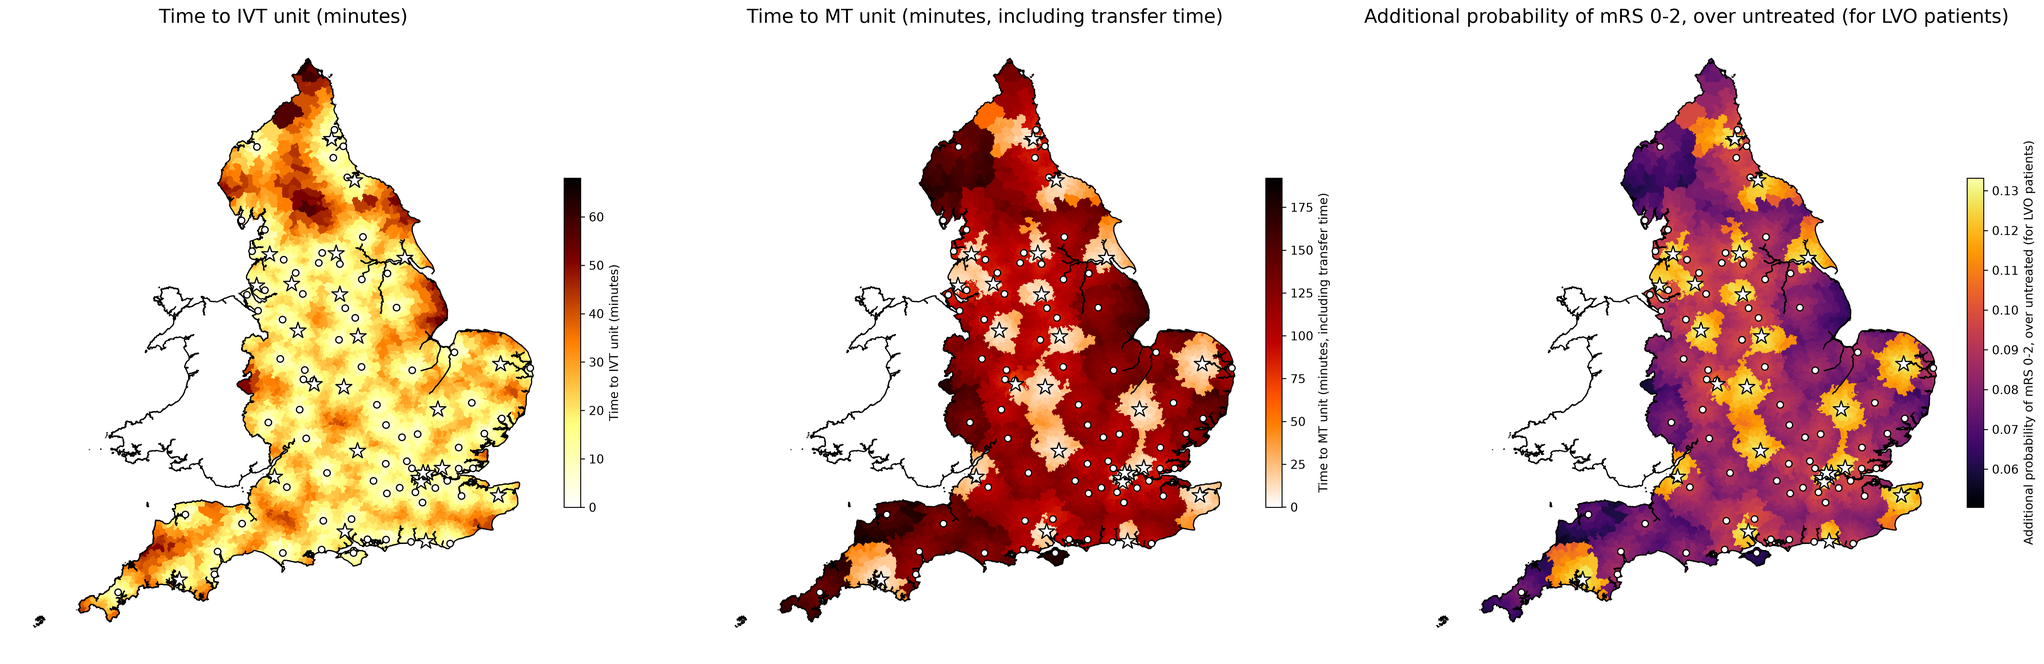
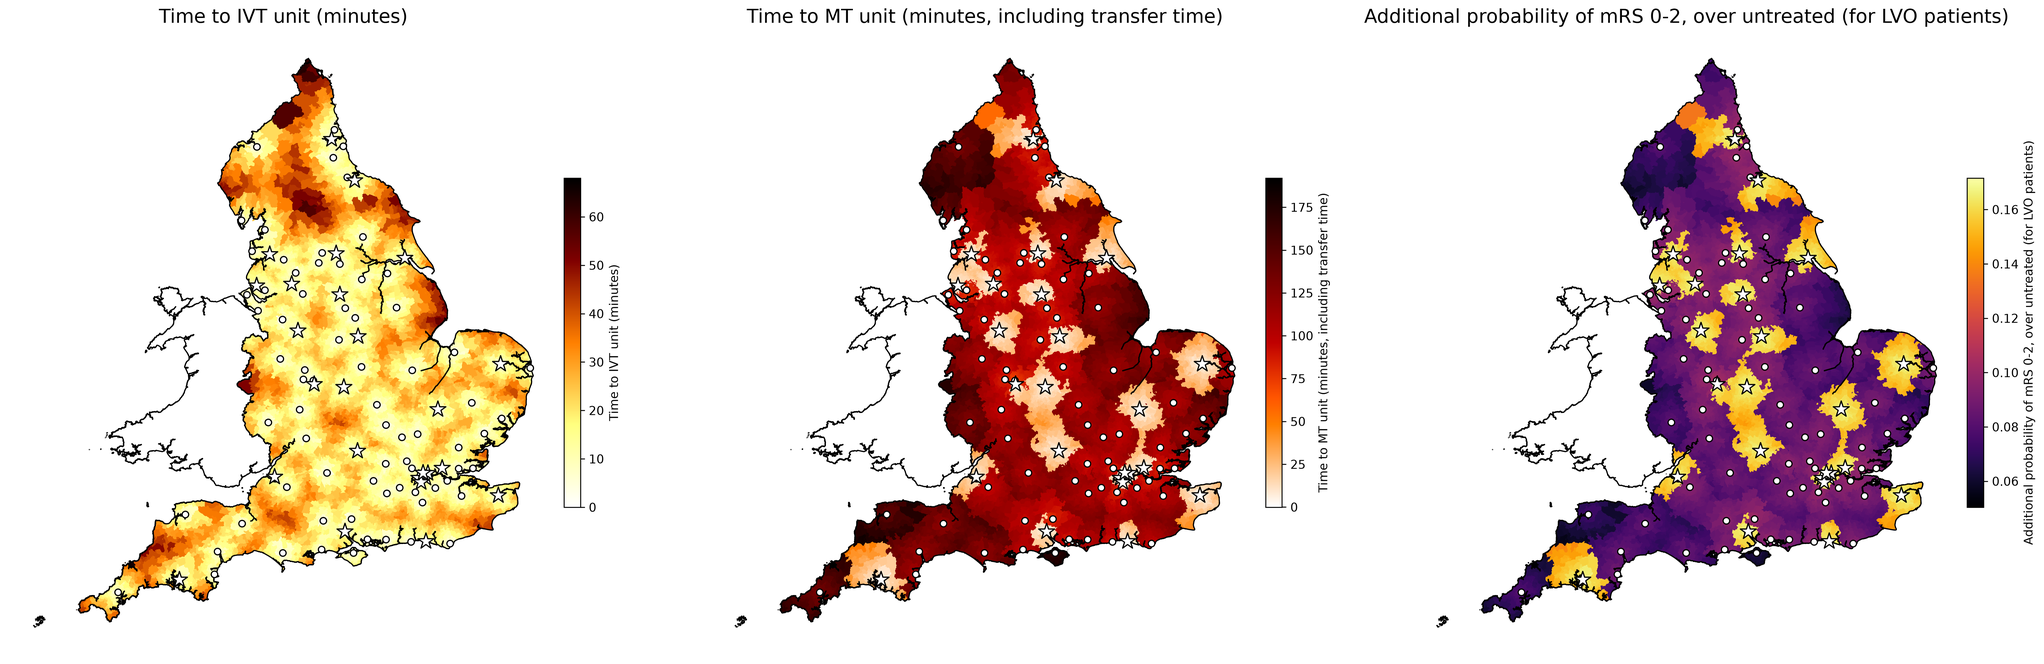
Updates from Overleaf

Changed region(s): [[0.7183, 0.0927, 0.9682, 0.927]]

diff --git a/chapters/7_supplement.tex b/chapters/7_supplement.tex
@@ -2,40 +2,81 @@
 
 \subsection{Selection of potential new MT units by net benefit}
 
-\noindent
-\begin{minipage}{\linewidth}
+We tested each IVT-only unit to estimate the potential gain from adding that unit as a single extra MT unit. The model predicted the catchment population of the new MT provision, as a sum of admissions to that unit and all surrounding IVT-only units where the new MT unit would be the closest (fast travel time) MT unit. The model also predicted the benefit to those patients. The total net benefit from adding each unit is the product of the catchment population and the benefit achieved to that population. Two units may have the same net benefit but one by having a smaller benefit over a larger population, and the other having a larger benefit over a smaller benefit. Table \ref{tab:hospital-benefit} shows the top 40 units as measured by the total net benefit. Figure \ref{fig:benefit_pareto} plots catchment population against benefit to that population, and the resulting net benefit.
+
+\begin{table}[htbp]
 \centering
-\captionof{table}{Order of benefit of adding a single new MT unit. Net benefit is a product of the overall catchment area for the new proposed MT unit (including the catchments of the IVT feeder units) and the benefit to those transferred to the new MT unit. \textit{Mean benefit for those benefiting} is the predicted improvement in percentage points of treated LVO patients with mRS 0-2 at 3-6 months, assuming there is no loss of use of MT by first attending an IVT-only unit.} 
+\small
+\caption{Estimated benefit by hospital location. Each hospital is tested as a single extra MT-unit in addition to current provision. The \textit{Admission Catchment Benefitting} is the catchment of that extra unit and all the IVT-only units that would likely use the new unit. \textit{The Mean Benefit} is the number of additional good outcomes (mRS 0-2 at 3-6 months) for 100 patients treated with MT at the new centre. The \textit{Relative Benefit} is the product of the Catchment and the Mean Benefit, scaled to the maximum benefit observed. Results show the hospitals in the top 40 relative benefit.}
 \label{tab:hospital-benefit}
-\begin{tabular}{r l r r r}
+\begin{tabular}{lrrr}
 \toprule
-Rank & Hospital Location & \shortstack{Admission Catchment\\Benefiting} & \shortstack{Mean Benefit for\\Those Benefiting} & \shortstack{Relative\\Net Benefit} \\
+Hospital Location & \shortstack[r]{Admission Catchment\\Benefiting} & \shortstack[r]{Mean\\Benefit} & \shortstack[r]{Relative\\Benefit} \\
 \midrule
-1  & Harrow              & 6164 & 0.74 & 1.000 \\
-2  & \textbf{Taunton}    & 2736 & 1.65 & 0.983 \\
-3  & Exeter              & 2680 & 1.67 & 0.976 \\
-4  & Watford             & 4980 & 0.87 & 0.944 \\
-5  & Luton and Dunstable & 4456 & 0.96 & 0.930 \\
-6  & Frimley Park        & 2705 & 1.53 & 0.904 \\
-7  & Northampton         & 3458 & 1.17 & 0.884 \\
-8  & Milton Keynes       & 2420 & 1.57 & 0.829 \\
-9  & Chertsey            & 3320 & 1.09 & 0.785 \\
-10 & Colchester          & 1332 & 2.70 & 0.784 \\
-11 & Reading             & 4245 & 0.84 & 0.776 \\
-12 & Bournemouth         & 2090 & 1.68 & 0.765 \\
-13 & Truro               & 834  & 4.14 & 0.753 \\
-14 & Peterborough        & 1716 & 1.93 & 0.722 \\
-15 & Ipswich             & 1700 & 1.95 & 0.721 \\
-16 & Torbay              & 2682 & 1.14 & 0.666 \\
-17 & Stevenage           & 3367 & 0.84 & 0.620 \\
-18 & Dartford            & 2879 & 0.98 & 0.615 \\
-19 & Wolverhampton       & 3279 & 0.86 & 0.615 \\
-20 & High Wycombe        & 5329 & 0.52 & 0.605 \\
-21 & Cheltenham          & 2762 & 1.00 & 0.604 \\
-22 & \textbf{Worcester}  & 2010 & 1.37 & 0.600 \\
-23 & Carlisle            & 683  & 4.02 & 0.597 \\
-24 & Lincoln             & 917  & 2.99 & 0.597 \\
-25 & Portsmouth          & 1980 & 1.37 & 0.592 \\
+Harrow              & 6164 & 1.90 & 1.00 \\
+Smethwick           & 6206 & 1.56 & 0.83 \\
+Watford             & 4980 & 1.93 & 0.82 \\
+Bournemouth         & 2090 & 4.24 & 0.76 \\
+Stockport           & 1743 & 4.88 & 0.73 \\
+Northampton         & 3458 & 2.42 & 0.72 \\
+Frimley Park        & 2705 & 3.09 & 0.72 \\
+Taunton             & 2736 & 2.95 & 0.69 \\
+Wolverhampton       & 3279 & 2.44 & 0.69 \\
+Dartford            & 2879 & 2.57 & 0.63 \\
+Peterborough        & 1716 & 4.27 & 0.63 \\
+Reading             & 4245 & 1.71 & 0.62 \\
+Portsmouth          & 1980 & 3.62 & 0.61 \\
+Chertsey            & 3320 & 2.16 & 0.61 \\
+Luton and Dunstable & 4456 & 1.58 & 0.60 \\
+Exeter              & 2680 & 2.60 & 0.60 \\
+Bury                & 1417 & 4.88 & 0.59 \\
+Doncaster           & 2769 & 2.48 & 0.59 \\
+Leicester           & 2273 & 2.95 & 0.57 \\
+Truro               &  834 & 7.95 & 0.57 \\
+Milton Keynes       & 2420 & 2.73 & 0.57 \\
+Colchester          & 1332 & 4.94 & 0.56 \\
+High Wycombe        & 5329 & 1.17 & 0.54 \\
+Dudley              & 3221 & 1.93 & 0.53 \\
+Lincoln             &  917 & 6.78 & 0.53 \\
+York                & 1021 & 6.06 & 0.53 \\
+Stevenage           & 3367 & 1.84 & 0.53 \\
+Maidstone           & 1078 & 5.60 & 0.52 \\
+Telford             &  931 & 6.24 & 0.50 \\
+Cheltenham          & 2762 & 2.10 & 0.50 \\
+Bradford            & 1694 & 3.33 & 0.48 \\
+Derby               & 1099 & 5.11 & 0.48 \\
+Torbay              & 2682 & 2.08 & 0.48 \\
+Basildon            & 3784 & 1.44 & 0.47 \\
+Epsom               & 3270 & 1.67 & 0.47 \\
+Ipswich             & 1700 & 3.20 & 0.47 \\
+Worcester           & 2010 & 2.69 & 0.46 \\
+Dorchester          &  729 & 7.34 & 0.46 \\
+Swindon             & 2334 & 2.29 & 0.46 \\
+Carlisle            &  683 & 7.81 & 0.46 \\
 \bottomrule
 \end{tabular}
-\end{minipage}
+\end{table}
+
+\begin{figure}[htbp]
+    \centering
+    \includegraphics[width=0.66\linewidth]{images/mt_unit_benefit_plot.png}
+    \caption{The benefit of adding a single new MT unit, chosen from current IVT-only units. The \textit{x-axis} shows catchment area (emergency stroke admissions per year) that would be redirected to the new MT-centre. The \textit{y-axis} shows the benefit redirected LVO patients would have if treated. Each point is sized and coloured by the net benefit (the product of the catchment area and the potential benefit for each person). The red line shows the \textit{Pareto front} where no other unit has both a better catchment and a better benefit per person.}
+    \label{fig:benefit_pareto}
+\end{figure}
+
+\clearpage
+
+\subsection{Target trial emulation on timing of thrombolysis and thrombectomy}
+
+In the SAMueL (Stroke Audit Machine Learning) project We performed a target trial on patients identified as having a large vessel occlusion, ir a stroke severity (NIHSS) of 11+. To emulate a clinical trial, we constructed comparable treatment and control groups by finding a matched untreated for each patient in each treatment group (with treatment groups based on the patient receiving IVT and/MT before or after 270 minutes from stroke onset). Patients were matched on features found to significantly affect outcome or probability of receiving thrombolysis or thrombectomy, namely prior disability, age group (5 year bands), stroke severity bands (NIHSS 0-4, 5-9, 10-14, \textit{et seq.}), Afib anti-coagulant, and Afib diagnosis. Non-matched treated patients (a maximum of 2.3\% of any treatment group) were dropped from the analysis to ensure common support between control and test groups.
+
+Each treatment group had its own untreated control matched group. Discharge with disability was then compared between control and treated patients in each treatment group. 
+
+Figure \ref{fig:main_target_trial_mrs_2} shows the differences between control and treated groups for each treatment group of early or late thrombolysis and thrombectomy. Early (treatment given $\leq$ 270 minutes after stroke onset) combined thrombolysis and thrombectomy had the greatest estimated benefit, followed by early thrombolysis alone. Early thrombectomy alone had significant benefit, but less than combined treatment or thrombolysis alone. Late thrombolysis alone ($>$ 270 minutes after stroke onset) had reduced benefit, but late thrombectomy , with or without thrombolysis, appeared to have little benefit.
+
+\begin{figure}
+    \centering
+    \includegraphics[width=1\linewidth]{images/non_mild_stroke_early_arrival_good_outcome_target_trial.png}
+    \caption{Target trial emulation of reperfusion-treatment timing strategies and discharge functional outcomes, using matched control and treated patients. Estimated mean discharge modified Rankin Scale (mRS; left panel), proportion achieving an outcome of mRS 0–2 (middle panel), and length of stay (right panel) are shown for patients receiving each treatment strategy (red) and their matched untreated comparators (blue). Strategies are defined by early ($\leq$ 270 mins from onset) or late ($>$ 270 mins from onset) intravenous thrombolysis, mechanical thrombectomy, or their combination. Points denote estimated outcomes and horizontal bars 95\% confidence intervals; p-values indicate the treated–untreated comparison within each treatment group, with sample sizes shown. Lower mRS and higher mRS 0–2 proportions indicate more favourable outcomes.}
+    \label{fig:main_target_trial_mrs_2}
+\end{figure}

diff --git a/chapters/4_results.tex b/chapters/4_results.tex
@@ -31,15 +31,34 @@ There is significant variation by geography, even without loss of MT procedures 
 
 We have compared the expected benefit of the current system (including new units in East Kent and Norwich) to the same system with the addition of Taunton and Worcester.
 
-The addition of a new MT centre at Taunton potentially advantages a catchment population of 2,736 stroke admissions per year. The net improvement is expected to be about 1.7 additional good outcomes (mRS 0-2 at 3-6 months) if there is no loss of MT for patients first admitted to an IVT-only centre.
+The addition of a new MT centre at Taunton potentially advantages a catchment population of 2,736 stroke admissions per year. The net improvement is expected to be about 2.9 additional good outcomes (mRS 0-2 at 3-6 months) if there is no loss of MT for patients first admitted to an IVT-only centre.
 
-The addition of a new MT centre at Worcester potentially advantages a catchment population of 2,010 stroke admissions per year. The net improvement is expected to be about 1.4 additional good outcomes (mRS 0-2 at 3-6 months) if there is no loss of MT for patients first admitted to an IVT-only centre.
+The addition of a new MT centre at Worcester potentially advantages a catchment population of 2,010 stroke admissions per year. The net improvement is expected to be about 2.7 additional good outcomes (mRS 0-2 at 3-6 months) if there is no loss of MT for patients first admitted to an IVT-only centre.
 
-Improvement in outcomes is not even across the population who may benefit. The benefit is greatest for those who attend the new MT unit directly, as they benefit most in time gained before MT, and do not risk the lower MT rates for patients first attending an IVT-only unit. The benefit for patients currently attending Taunton or Worcester is an increase of 3.3 and 1.7 percentage points in treated LVO with mRS 0-2 in 3-6 months, if there is no loss of MT by first attending an IVT-only unit. This improvement rises to 4.3 and 3.1 percentage points if there is a 33\% loss in MT first attending an IVT-only unit (as these patients avoid a loss in MT due to transfer). The benefit to patients first attending an IVT-only unit ranges from 0.05 to 1.5 percentage points with no loss of MT, or 0.04 to 1.0 percentage points with a 33\% loss in MT. The benefit to patients first attending Dorchester is extremely marginal (approx 0.05 increase in percentage points) as travel times to Taunton and Southampton are very similar (and which is the fastest unit to travel transport patients to may vary during, and between, days).
+Improvement in outcomes is not even across the population who may benefit. The benefit is greatest for those who attend the new MT unit directly, as they benefit most in time gained before MT, and do not risk the lower MT rates for patients first attending an IVT-only unit. The benefit for patients currently attending Taunton or Worcester is an increase of 7.1 and 5.5 percentage points in treated LVO with mRS 0-2 in 3-6 months, if there is no loss of MT by first attending an IVT-only unit. This improvement rises to 8.1 and 7.1 percentage points if there is a 33\% loss in MT first attending an IVT-only unit (as these patients avoid a loss in MT due to transfer). The benefit to patients first attending an IVT-only unit ranges from 0.05 to 1.5 percentage points with no loss of MT, or 0.04 to 0.96 percentage points with a 33\% loss in MT. The benefit to patients first attending Dorchester is extremely marginal (approx 0.05 increase in percentage points) as travel times to Taunton and Southampton are very similar (and which is the fastest unit to travel transport patients to may vary during, and between, days). More details are given in table \ref{tab:ivt-location}.
+
+\begin{table}[htbp]
+  \centering
+  \caption{Benefit (percentage points increase in treated LVO with mRS 0-2 in 3-6 months, for 100 patients treated, by first-attending unit.}
+  \label{tab:ivt-location}
+  \begin{tabular}{lrr}
+    \toprule
+    IVT location & No MT loss & 33\% MT loss \\
+    \midrule
+    Taunton     & 7.13 & 8.11 \\
+    Worcester   & 5.55 & 7.13 \\
+    Hereford    & 1.51 & 1.01 \\
+    Barnstaple  & 1.43 & 0.96 \\
+    Exeter      & 1.04 & 0.69 \\
+    Cheltenham  & 0.92 & 0.62 \\
+    Dorchester  & 0.05 & 0.04 \\
+    \bottomrule
+  \end{tabular}
+\end{table}
 
 \subsubsection{Maps of travel times and clinical benefit}
 
-Figures \ref{fig:map_current_no_loss} to \ref{fig:comparison} show maps of the current and planned system (with additional MT units at Taunton and Worcester), with and with a 33\% loss of MT for patients first attending an IVT-only centre.
+Figures \ref{fig:map_current_no_loss} to \ref{fig:comparison_three_in_one_lossy} show maps of the current and planned system (with additional MT units at Taunton and Worcester), with and with a 33\% loss of MT for patients first attending an IVT-only centre.
 
 \begin{landscape}
 
@@ -83,28 +102,20 @@ Figures \ref{fig:map_current_no_loss} to \ref{fig:comparison} show maps of the c
 
 \begin{figure}
     \centering
-    \includegraphics[width=1\linewidth]{images/comparison_map_taunton_worcester_three_in_one.png}
-    \caption{Comparison of travel times for MT (including non-travel delays) and outcomes (the predicted improvement in the proportion of treated LVO patients with mRS 0-2 at 3-6 months) by adding MT capability at Taunton and Worcester. The arrows indicate the modelled transfer destination from IVT-only units. \textit{Left}: Current predicted travel times for MT, \textit{Middle}: Improvement in travel time to MT. \textit{Right}: Improvement in outcomes.}
+    \includegraphics[width=1\linewidth]{images/comparison_map_three_in_one_taunton_worcester.png}
+    \caption{Comparison of travel times for MT (including non-travel delays) and outcomes (the predicted improvement in the proportion of treated LVO patients with mRS 0-2 at 3-6 months) by adding MT capability at Taunton and Worcester, with no loss of MT by first attending an IVT-only unit. The arrows indicate the modelled transfer destination from IVT-only units. \textit{Left}: Current predicted travel times for MT, \textit{Middle}: Improvement in travel time to MT. \textit{Right}: Improvement in outcomes.}
     \label{fig:comparison_three_in_one}
 \end{figure}
 
-
-\begin{figure}[htbp]
-  \centering
-  \begin{subfigure}[b]{0.48\linewidth}
+\begin{figure}
     \centering
-    \caption*{No loss of MT from first admission to IVT-only unit}  % placed before the image, so it sits on top
-    \includegraphics[width=\linewidth]{images/comparison_map_taunton_worcester.png}
-  \end{subfigure}
-  \hfill
-  \begin{subfigure}[b]{0.48\linewidth}
-    \centering
-    \caption*{33\% loss of MT from first admission to IVT-only unit}
-    \includegraphics[width=\linewidth]{images/comparison_map_taunton_worcester_67_percent_transfer.png}\\
-  \end{subfigure}
-  \caption{The benefit to outcomes (the predicted improvement in the proportion of treated LVO patients with mRS 0-2 at 3-6 months) by adding MT capability at Taunton and Worcester. The arrows indicate the modelled transfer destination from IVT-only units. \textit{Left}: No loss of MT by first attending an IVT-only unit. Right: 33\% loss of MT by first attending an IVT-only unit.}
-  \label{fig:comparison}
+    \includegraphics[width=1\linewidth]{images/comparison_map_three_in_one_taunton_worcester_67_percent_transfer.png}
+    \caption{Comparison of travel times for MT (including non-travel delays) and outcomes (the predicted improvement in the proportion of treated LVO patients with mRS 0-2 at 3-6 months) by adding MT capability at Taunton and Worcester, with 33\% loss of MT by first attending an IVT-only unit. The arrows indicate the modelled transfer destination from IVT-only units. \textit{Left}: Current predicted travel times for MT, \textit{Middle}: Improvement in travel time to MT. \textit{Right}: Improvement in outcomes.}
+    \label{fig:comparison_three_in_one_lossy}
 \end{figure}
+
+
+
 
 \end{landscape}
 

diff --git a/chapters/3_methods.tex b/chapters/3_methods.tex
@@ -2,13 +2,50 @@
 
 Full methods have been published \cite{laws2025modelling}.
 
+\subsection{Lower Super Output Areas (LSOA)}
+
+We performed our analysis across England using LSOA as our geographic footprint \cite{ons}. LSOAs are small areas in England, with roughly 1,500 people in each area. There are 32,843 LSOAs in England.
+
+\subsection{Travel times}
+
+Travel times between all Lower Super Output Areas (LSOAs, areas with a population of approximately 1,500) and all stroke units were estimated using Open Street Map data \footnote{\url{https://www.openstreetmap.org/}} and the Routino \footnote{\url{https://www.routino.org/}} route finding engine on Linux.
+
+\subsection{Outcome modelling}
+
 Outcome modelling is based on published meta-analysis of clinical trials which have evaluated the decline of effectiveness  of IVT and MT over time \cite{emberson_effect_2014, fransen_time_2016}. We have applied those models to the expected real world treatment population (based on the national stroke audit of England and Wales, SSNAP). We calculated the expected benefit in the treated population for non large vessel occlusion (\textit{nLVO}, receiving IVT only) and large vessel occlusion (\textit{LVO}, receiving IVT and/or MT) separately.
 
-We used modified Rankin Scale (mRS) at 3--6 months as a measure of outcome. mRS is the most commonly used instrument to describe post-stroke functional outcome \cite{quinn_functional_2009}, describing independence of living from a scale of 0 (no disability) through to 5 (severe disability requiring constant nursing attention), with death assigned an mRS of 6. A commonly used surrogate for independent living is mRS 0$-$2.
+We used modified Rankin Scale (mRS) at 3--6 months as a measure of outcome. mRS is the most commonly used instrument to describe post-stroke functional outcome \cite{quinn_functional_2009}, describing independence of living from a scale of 0 (no disability) through to 5 (severe disability requiring constant nursing attention), with death assigned an mRS of 6. A commonly used surrogate for independent living is mRS 0--2.
 
-We calculated the patients' mRS outcome distribution based on time to treatment for three patient-treatment cohorts: nLVO treated with IVT; LVO treated with IVT alone; and LVO treated with IVT and MT. For each patient-treatment cohort we calculated an mRS distribution for treatment at any given time by interpolating between the mRS distribution for treatment given at \emph{t=0} (time of stroke onset) and the mRS distribution for treatment given at \emph{t=No Effect} (time of no effect of treatment), assuming that log odds fall linearly over time \cite{emberson_effect_2014, fransen_time_2016}. Further details on how these \emph{t=0} and \emph{t=No Effect} mRS distributions were derived are given in the supplementary material. As possible changes to service provision reported here should only affect potential candidates for thrombectomy, in this report we only show results for treated large vessel occlusion stroke.
+We calculated the patients' mRS outcome distribution based on time to treatment for three patient-treatment cohorts: nLVO treated with IVT; LVO treated with IVT alone; and LVO treated with IVT and MT. For each patient-treatment cohort we calculated an mRS distribution for treatment at any given time by interpolating between the mRS distribution for treatment given at \emph{t=0} (time of stroke onset) and the mRS distribution for treatment given at \emph{t=No Effect} (time of no effect of treatment), assuming that log odds of achieving any given mRS threshold fall linearly over time \cite{emberson_effect_2014, fransen_time_2016}. As possible changes to service provision reported here should only affect potential candidates for thrombectomy, in this report we only show results for treated large vessel occlusion stroke.
 
-Travel times between all Lower Super Output Areas (LSOAs, areas with a population of approximately 1,500) and all stroke units were estimated using 
-Open Street Map data \footnote{\url{https://www.openstreetmap.org/}} and the Routino \footnote{\url{https://www.routino.org/}} route finding engine on Linux.
+The time to no effect was 6.3 hours for IVT \cite{emberson_effect_2014} and 8.0 hours for MT \cite{ fransen_time_2016}. Our model did not include selection of patients who may still benefit from treatment beyond these durations through the use of perfusion scanning. This number is small for IVT, but is more substantial for MT – approximately 2500 per annum in England.
 
-The time to no effect was 6.3 hours for IVT \cite{emberson_effect_2014} and 8.0 hours for MT \cite{ fransen_time_2016}. Our model did not include selection of patients who may still benefit from treatment beyond these durations through the use of perfusion scanning. This number is small for IVT, but is more substantial for MT – approximately 2500 per annum in England. 
+Our modelling compares outcomes for those patients receiving IVT and MT. We do not make any assumption about the proportion of all patients receiving those treatments.
+
+Code for outcome modelling, and a further description of methods is available on GitHub \footnote{\url{https://github.com/stroke-modelling/stroke-outcome/}}, and we have made it available as a Python package on PyPi \footnote{\url{https://pypi.org/project/stroke-outcome/}}. We have described the methods in detail in an online book \footnote{\url{https://samuel-book.github.io/stroke_outcome/intro.html}}.
+
+\subsection{Process times}
+
+To study geographic variation in benefit of MSU care, a single set of parameters was chosen that reflected a reasonable base case for performance of usual care of LVO stroke. Process times (minutes) are shown in the following list.
+
+\vspace{5mm}
+
+\begin{minipage}{1.0\textwidth}  % Define the width of the minipage
+\begin{itemize}
+    \item Stroke onset to call: 30
+    \item Call to ambulance arrival: 20
+    \item Ambulance on-scene: 30
+    \item Travel time to first admitting unit: Depends on geography
+    \item Hospital arrival to IVT: 30
+    \item If transfer for MT required:
+    \begin{itemize}
+        \item Transfer-related net MT delay (excluding travel time)*: 60
+        \item Transport time to MT unit: Depends on geography
+    \end{itemize}
+    \item Hospital arrival to MT: 90
+\end{itemize}
+
+*This assumes a typical door-in-door-out time of 90 mints at the IVT-only centre, but 1 30 minute reduction in Hospital arrival to MT at the transferred-in MT centre, due to work already performed at the IVT-only unit.
+\end{minipage}
+
+

diff --git a/chapters/1a_exec_summary.tex b/chapters/1a_exec_summary.tex
@@ -1,2 +1,5 @@
 \section*{Executive summary}
 
+Severe large-vessel occlusion stroke is best treated by a combination of thrombolysis (IVT) and thrombectomy (MT). Most patients first attend an IVT-only centre, and require transfer for thrombectomy. Those patients requiring transfer have a lower chance of receiving thrombectomy, and those that receive thrombectomy receive it about 110 minutes later than patients who directly attend an MT-capable unit. The delay is due to a combination of extra travel time, transferring between units, and system-related delays in initiating transfer between stroke units. Improving access to MT, especially direct access, is expected to improve outcomes in the most severe strokes.
+
+Introducing thrombectomy at Taunton and Worcester would give about three more large vessel occlusion stroke patients in every 100 treated there a good recovery (independent living at 3–6 months), with Taunton showing the greater benefit. That gain is uneven across patients. Those who go straight to the new centres gain five to eight extra good outcomes per 100 treated. Those transferred in from thrombolysis-only hospitals gain around one. To get the most benefit, ambulance services should take suitable patients straight to the new centres where possible.

diff --git a/main.tex b/main.tex
@@ -75,7 +75,11 @@
 
 \input{chapters/1a_exec_summary}
 
+\clearpage
+
 \tableofcontents
+
+
 
 \input{chapters/2_intro}
 \input{chapters/3_methods}
@@ -90,9 +94,17 @@
 
 \include{chapters/6_end_text}
 
-\clearpage
+\clearpage  % optional, but keeps floats from the main text out of the supplement
+
 \setcounter{section}{0}
+\setcounter{figure}{0}
+\setcounter{table}{0}
+
 \renewcommand{\thesection}{S\arabic{section}}
+\renewcommand{\thefigure}{S\arabic{figure}}
+\renewcommand{\thetable}{S\arabic{table}}
+
+
 \include{chapters/7_supplement}
 
 \end{document}
